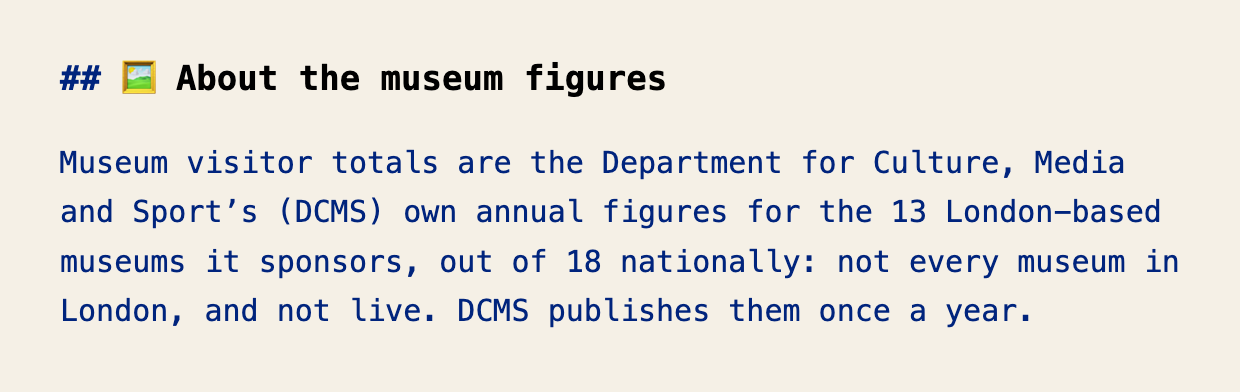
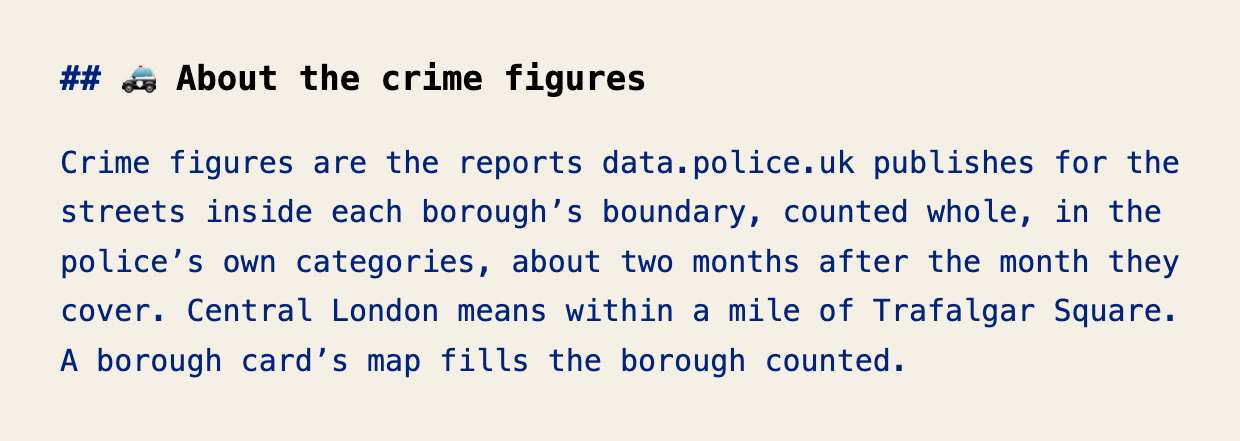
Pinned thread: a card about the crime figures
Whole-borough counts since today, and no card had ever said how the
borough figures were made. The new card says: data.police.uk's street
reports inside each borough's boundary, counted whole, in the police's
own categories, about two months behind; central London is within a mile
of Trafalgar Square; the borough map fills the borough counted. Reposted
and re-pinned with --replace, read back from the live thread.

Changed region(s): [[0.0306, 0.3367, 0.95, 0.7347], [0.0306, 0.7653, 0.8274, 0.8571], [0.0306, 0.1531, 0.5516, 0.2449]]

diff --git a/london_index_methodology.py b/london_index_methodology.py
@@ -96,10 +96,22 @@ MUSEUMS = ("Museum visitor totals are the Department for Culture, Media and "
            "sponsors, out of 18 nationally: not every museum in London, and not "
            "live. DCMS publishes them once a year.")
 
+# Added 12 September 2026, the day the borough figures became whole-borough
+# counts: until then they were a one-mile sample around each town hall and
+# no card, pinned or daily, said so. The polygon is the ONS borough outline,
+# the same one the map reply draws; data.police.uk publishes street-level
+# reports about two months behind, with its own categories.
+CRIME = ("Crime figures are the reports data.police.uk publishes for the streets "
+         "inside each borough's boundary, counted whole, in the police's own "
+         "categories, about two months after the month they cover. Central "
+         "London means within a mile of Trafalgar Square. A borough card's map "
+         "fills the borough counted.")
+
 CARDS = [
     {'heading': 'About this account', 'emoji': '\U0001f1ec\U0001f1e7', 'body': [INTRO]},
     {'heading': 'About the figures', 'emoji': '\U0001f9ee', 'body': [COUNTS]},
     {'heading': 'About the station figures', 'emoji': '\U0001f687', 'body': [STATIONS]},
+    {'heading': 'About the crime figures', 'emoji': '\U0001f693', 'body': [CRIME]},
     {'heading': 'About the museum figures', 'emoji': '\U0001f5bc', 'body': [MUSEUMS]},
 ]
 
